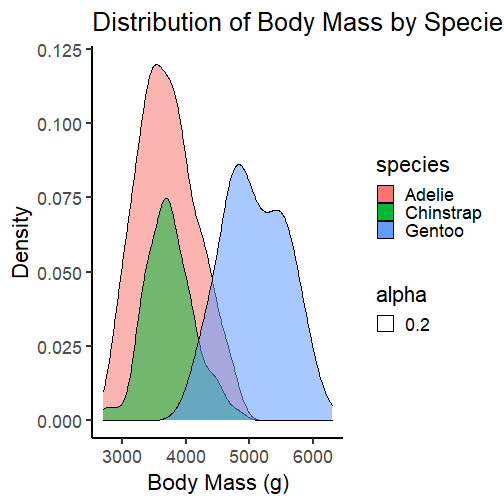
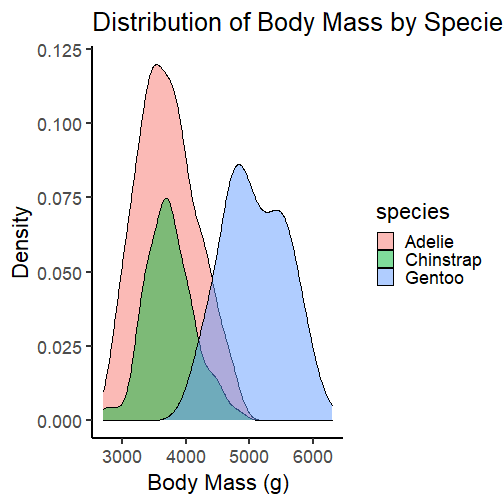
In Class Updates

Changed region(s): [[0.744, 0.2976, 0.9524, 0.6548], [0.8036, 0.625, 0.8631, 0.6548]]

diff --git a/source/Workshop8_Faster_Presentation.md b/source/Workshop8_Faster_Presentation.md
@@ -25,7 +25,7 @@ Load in penguins.csv from the website (it will probably be in your downloads fol
 
 
 ```r
-penguins <- read.csv("penguins.csv", row.names = 1)
+penguins <- read.csv("penguins.csv", row.names = 1, header = TRUE)
 ```
 
 
@@ -230,7 +230,7 @@ One of the best ways to visualize data is ggplot! Ggplot is a package which take
 
 
 ```r
-#install.packages(ggplot2)
+#install.packages("ggplot2")
 library(ggplot2)
 ```
 
@@ -259,9 +259,8 @@ Ggplot can also take in themes, many of which are built in. The sizes, shapes, c
 ```r
 ggplot(penguins, aes(body_mass_g, 
                      y=..count.., 
-                     fill = species, 
-                     alpha = 0.2)) + 
-  geom_density() + 
+                     fill = species)) + 
+  geom_density(alpha = 0.5) + 
   ggtitle("Distribution of Body Mass by Species") + 
   xlab("Body Mass (g)") + ylab("Density") +
   theme_classic(base_size = 22)
@@ -397,7 +396,7 @@ sample(compliments, 1)
 ```
 
 ```
-[1] "Research is hard, but perserverence is the key to success"
+[1] "You're doing great!"
 ```
 
 Build Your Own Function!
@@ -423,7 +422,7 @@ complimentme()
 ```
 
 ```
-[1] "I'm glad to see you here today"
+[1] "You are doing awesome science"
 ```
 
 Build Your Own Function!
